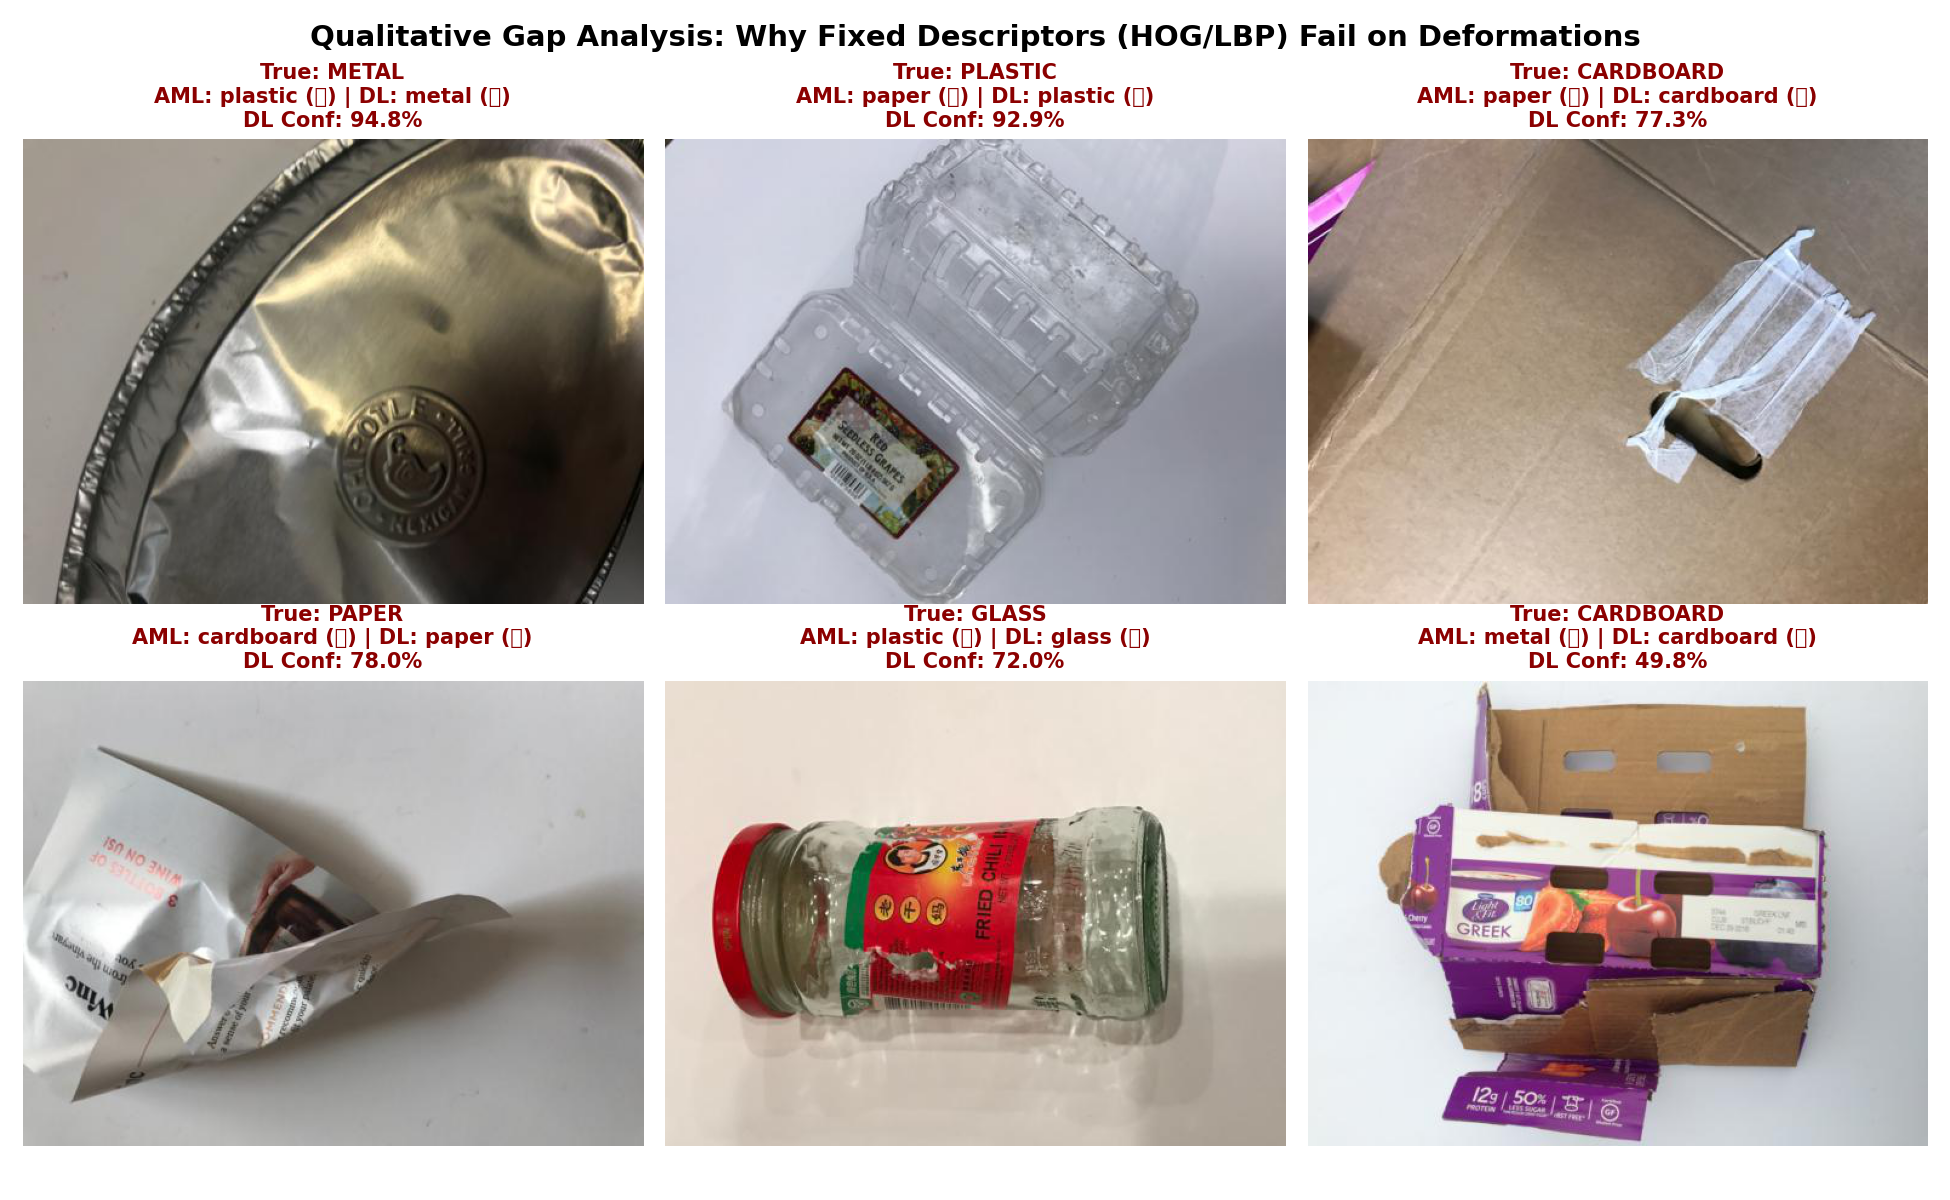
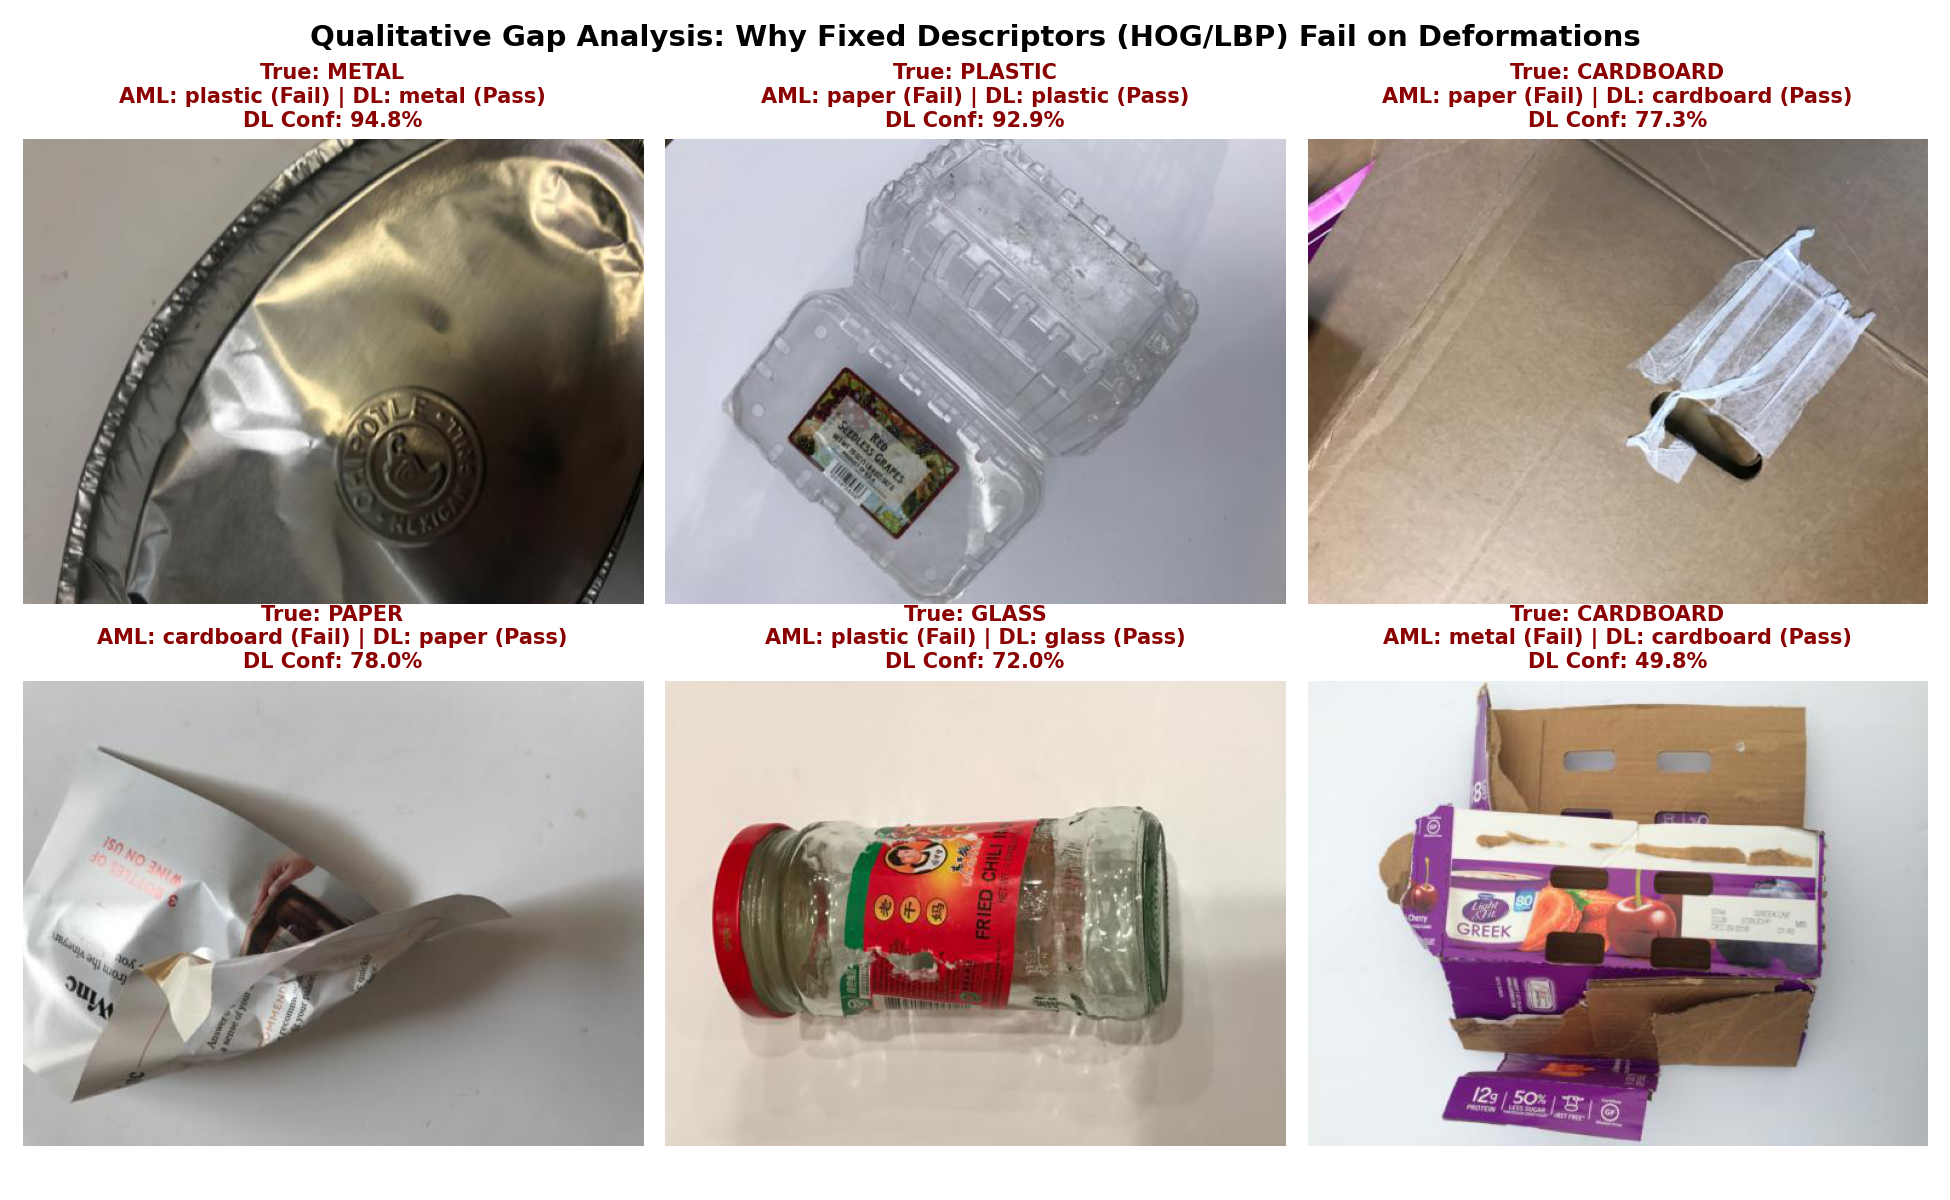
refactor: consolidate evaluation outputs into results/ and remove duplicate reports/

diff --git a/src/evaluate.py b/src/evaluate.py
@@ -34,7 +34,8 @@ from src.feature_extraction import extract_single_image_features
 
 SPLITS_DIR = REPO_ROOT / "splits"
 MODELS_DIR = REPO_ROOT / "models"
-REPORTS_DIR = REPO_ROOT / "reports"
+FIGURES_DIR = REPO_ROOT / "results" / "figures"
+METRICS_DIR = REPO_ROOT / "results" / "metrics"
 CACHE_PATH = REPO_ROOT / "data" / "features_aml.npz"
 
 
@@ -86,7 +87,8 @@ def run_benchmark():
     print("STEP 4: Fair Comparison, Calibration, Failure Analysis & Abstention")
     print("=" * 65)
 
-    REPORTS_DIR.mkdir(parents=True, exist_ok=True)
+    FIGURES_DIR.mkdir(parents=True, exist_ok=True)
+    METRICS_DIR.mkdir(parents=True, exist_ok=True)
     with open(SPLITS_DIR / "classes.json", "r") as f:
         meta = json.load(f)
         class_names = meta["class_names"]
@@ -200,9 +202,9 @@ def run_benchmark():
     axes[1].set_xlabel("Predicted Label")
 
     plt.tight_layout()
-    plt.savefig(REPORTS_DIR / "confusion_matrices.png", dpi=150)
+    plt.savefig(FIGURES_DIR / "confusion_matrices.png", dpi=150)
     plt.close()
-    print(f"Saved: {REPORTS_DIR / 'confusion_matrices.png'}")
+    print(f"Saved: {FIGURES_DIR / 'confusion_matrices.png'}")
 
     # Reliability / Calibration Diagram
     fig, ax = plt.subplots(figsize=(7, 6))
@@ -214,9 +216,9 @@ def run_benchmark():
     ax.legend(loc="upper left")
     ax.grid(True, linestyle=":", alpha=0.6)
     plt.tight_layout()
-    plt.savefig(REPORTS_DIR / "calibration_curve.png", dpi=150)
+    plt.savefig(FIGURES_DIR / "calibration_curve.png", dpi=150)
     plt.close()
-    print(f"Saved: {REPORTS_DIR / 'calibration_curve.png'}")
+    print(f"Saved: {FIGURES_DIR / 'calibration_curve.png'}")
 
     # Qualitative Failure Analysis: Where AML failed but DL succeeded (especially deformed/textured items)
     gap_indices = np.where((aml_svm_preds != y_test) & (dl_preds == y_test))[0]
@@ -245,9 +247,9 @@ def run_benchmark():
 
         plt.suptitle("Qualitative Gap Analysis: Why Fixed Descriptors (HOG/LBP) Fail on Deformations", fontsize=14, fontweight='bold', y=0.98)
         plt.tight_layout()
-        plt.savefig(REPORTS_DIR / "failure_cases_aml_vs_dl.png", dpi=150)
+        plt.savefig(FIGURES_DIR / "failure_cases_aml_vs_dl.png", dpi=150)
         plt.close()
-        print(f"Saved: {REPORTS_DIR / 'failure_cases_aml_vs_dl.png'}")
+        print(f"Saved: {FIGURES_DIR / 'failure_cases_aml_vs_dl.png'}")
 
     # Save complete benchmark json
     summary_data = {
@@ -264,9 +266,9 @@ def run_benchmark():
             "dl_retained_accuracy": float(dl_retained_acc)
         }
     }
-    with open(REPORTS_DIR / "final_test_benchmark.json", "w") as f:
+    with open(METRICS_DIR / "final_test_benchmark.json", "w") as f:
         json.dump(summary_data, f, indent=2)
-    print(f"Full benchmark saved: {REPORTS_DIR / 'final_test_benchmark.json'}\n")
+    print(f"Full benchmark saved: {METRICS_DIR / 'final_test_benchmark.json'}\n")
 
 
 if __name__ == "__main__":
